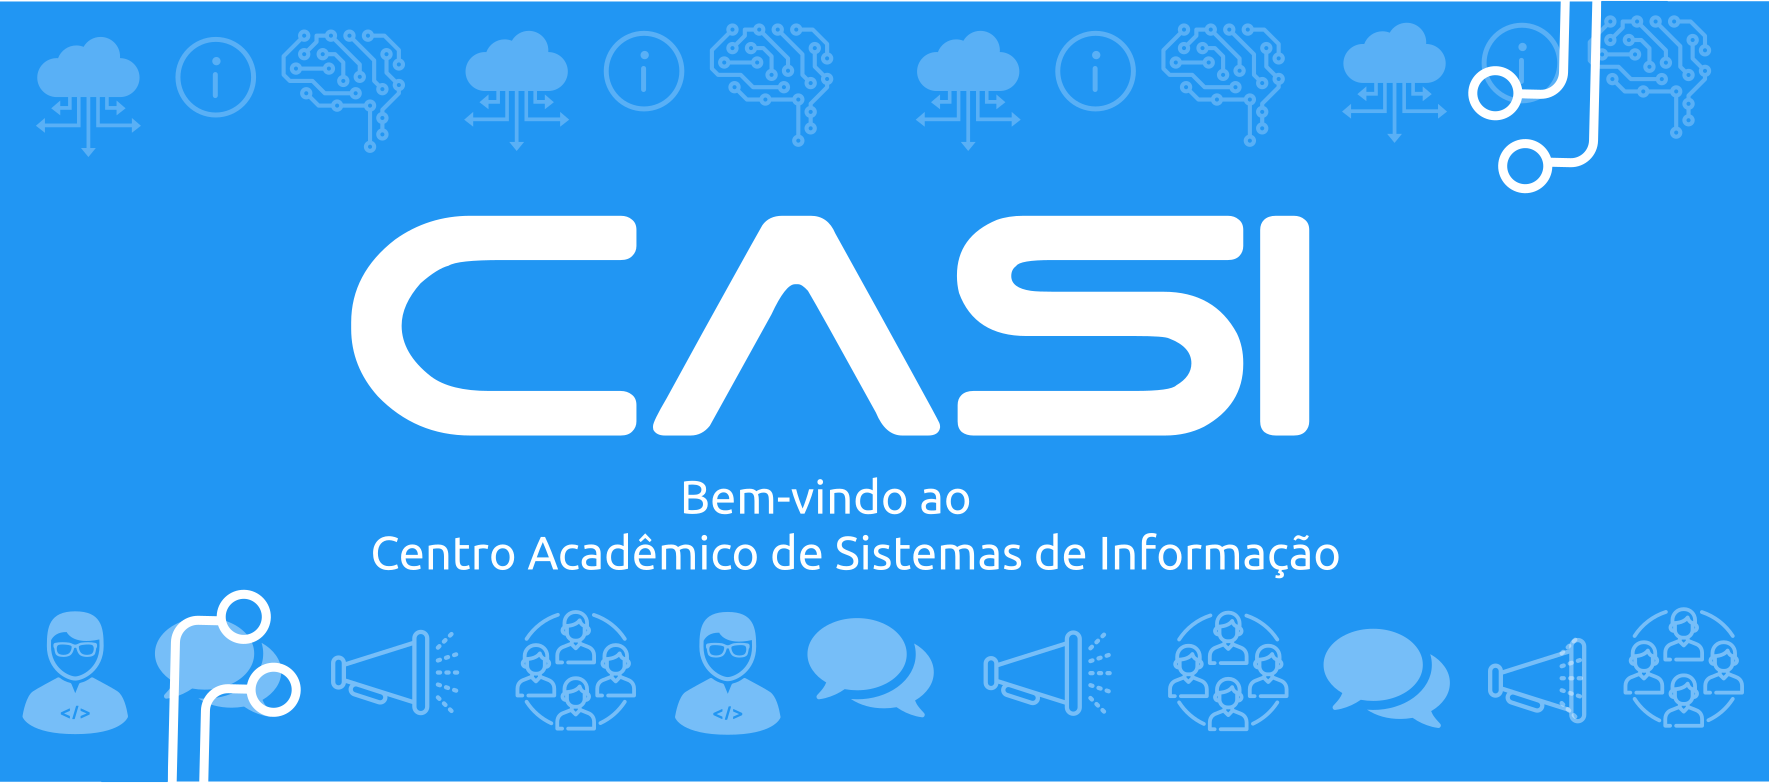
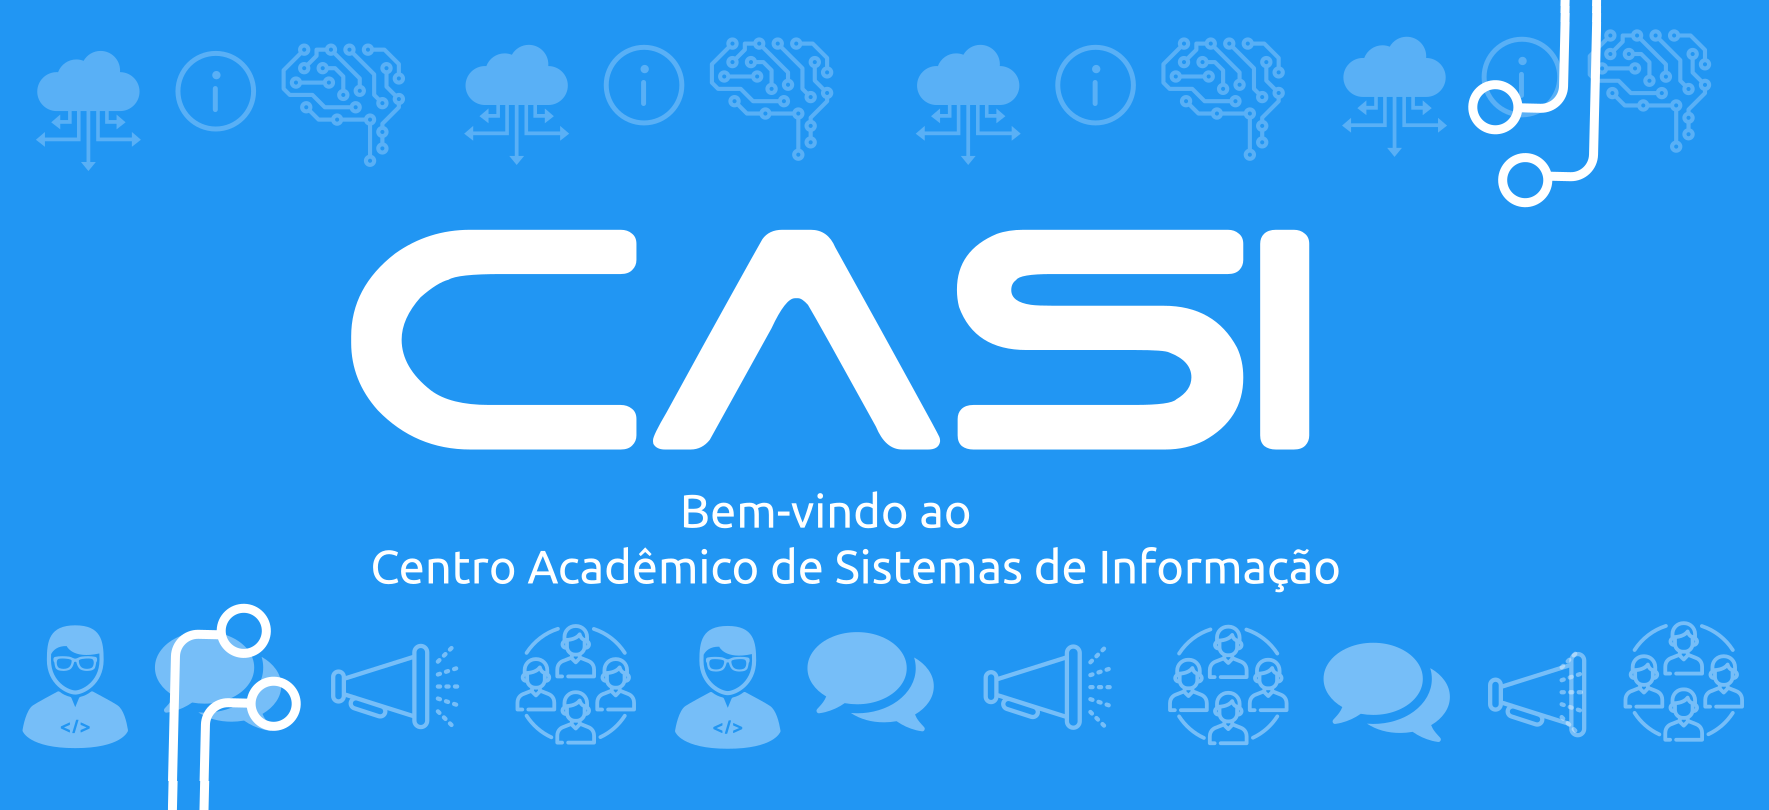
Alter images dimensions

diff --git a/css/styles.css b/css/styles.css
@@ -265,6 +265,7 @@ a img{
   margin-top: 16px;
   display: block;
   z-index: 2;
+  color: #00d6a6;
 }
 
 .android-image-link {
@@ -342,11 +343,11 @@ a img{
 
 .android-link {
   text-decoration: none;
-  color: #8bc34a !important;
+  color: #00d6a6 !important;
 }
 
   .android-link:hover {
-    color: #7cb342 !important;
+    color: #00d6a6 !important;
   }
 
   .android-link .material-icons {

diff --git a/css/about.css b/css/about.css
@@ -1,6 +1,5 @@
 .about-section {
   background-size: cover;
-  margin-left: -100px;
 }
 
 .about-band {
@@ -16,11 +15,9 @@
 }
 
 .about-band-text {
-  max-width: 800px;
   margin-left: 25%;
-  margin-right: 10%;
+  margin-right: 25%;
   padding: 24px;
   padding-bottom: 72px;
-  text-align: left;
   color: white;
 }

diff --git a/css/contact.css b/css/contact.css
@@ -43,7 +43,6 @@
 
 .contact-section {
   background-size: cover;
-  margin-left: -100px;
 }
 
 .contact-band {
@@ -53,9 +52,8 @@
 }
 
 .contact-band-text {
-  max-width: 800px;
   margin-left: 25%;
-  margin-right: 10%;
+  margin-right: 25%;
   padding: 24px;
   padding-bottom: 72px;
   text-align: left;
